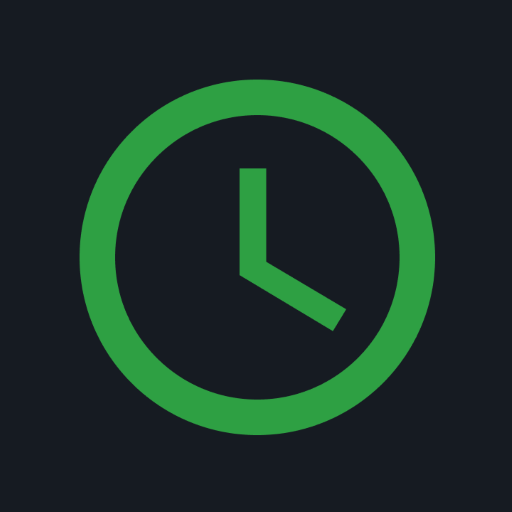
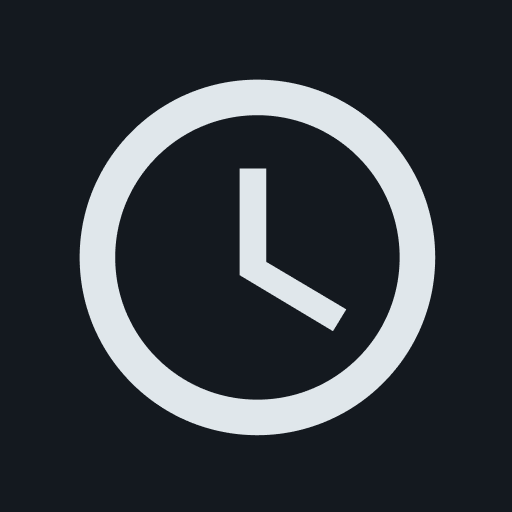
move to custom css

Changed region(s): [[0.1562, 0.1562, 0.875, 0.875], [0.4688, 0.3125, 0.6875, 0.6562]]

diff --git a/src/index.html b/src/index.html
@@ -8,10 +8,9 @@
     <meta name="description" content="Foothill High School Bell Schedule">
     <link rel="icon" href="favicon.svg">
     <link rel="stylesheet" href="style.css">
-    <link href="https://unpkg.com/@primer/css@^20.2.4/dist/primer.css" rel="stylesheet" />
-    <meta name="color-scheme" content="dark light">
+    <meta name="color-scheme" content="dark">
     <link rel="manifest" href="app.webmanifest">
-    <link rel="apple-touch-icon" href="apple-touch-icon.png"> 
+    <link rel="apple-touch-icon" href="apple-touch-icon.png">
     <meta name="apple-mobile-web-app-title" content="Schedule">
     <meta name="apple-mobile-web-app-capable" content="yes">
 </head>
@@ -21,55 +20,39 @@
         <h3 style="text-align: center;">{{ today }}</h3>
     </header>
     <main>
-        <div class="Box">
-            <div class="Box-header">
-                <h2 class="Box-title" style="text-align: center;">
-                    {{ scheduleName }}
-                </h2>
-            </div>
-            <div class="Box-body">
-                {{ scheduleHTML }}
-            </div>
+        <div class="box">
+            <h2>{{ scheduleName }}</h2>
+            {{ scheduleHTML }}
         </div>
-        <div class="Box">
-            <div class="Box-header d-flex flex-items-center">
-                <h2 class="Box-title flex-auto">
-                    Today's Games
-                    <span class="Counter Counter--gray">{{ gamesToday }}</span>
-                </h2>
-                <a href="games.html" class="btn btn-primary btn-sm">View Upcoming Games</a>
-            </div>
-            <div class="Box-body">
-                <ul>
-                    {% for value in games %}
-                    <li>
-                        <p><b>Time:</b> {{ value["Time"] }}</p>
-                        <p><b>Sport:</b> {{ value["Sport"] }}</p>
-                        <p><b>Opponent:</b> {{ value["Opponent"] }}</p>
-                        <p><b>Level:</b> {{ value["Level"] }}</p>
-                        <p><b>Game Type:</b> {{ value["GameType"] }}</p>
-                    </li>
-                    {% endfor %}
-                </ul>
-            </div>
+        <div class="box">
+            <h2>
+                Today's Games
+                <!-- <span class="counter">{{ gamesToday }}</span> -->
+            </h2>
+            <ul>
+                {% for value in games %}
+                <li>
+                    <p><b>Time:</b> {{ value["Time"] }}</p>
+                    <p><b>Sport:</b> {{ value["Sport"] }}</p>
+                    <p><b>Opponent:</b> {{ value["Opponent"] }}</p>
+                    <p><b>Level:</b> {{ value["Level"] }}</p>
+                    <p><b>Game Type:</b> {{ value["GameType"] }}</p>
+                </li>
+                {% endfor %}
+            </ul>
+            <a href="games.html" class="btn">View Upcoming Games</a>
         </div>
-        <div class="Box">
-            <div class="Box-header d-flex flex-items-center">
-                <h2 class="Box-title flex-auto">
-                    Today's Events
-                    <span class="Counter Counter--gray">{{ eventsToday }}</span>
-                </h2>
-                <a href="events.html" class="btn btn-primary btn-sm">View Upcoming Events</a>
-            </div>
-            <div class="Box-body">
-                    <ul>
-                        {% for value in events %}
-                        <li>
-                            <p>{{ value["Event"] }}</p>
-                        </li>
-                        {% endfor %}
-                    </ul>
-            </div>
+        <div class="box">
+            <h2>
+                Today's Events
+                <!-- <span class="counter">{{ eventsToday }}</span> -->
+            </h2>
+            <ul>
+                {% for value in events %}
+                <li><p>{{ value["Event"] }}</p></li>
+                {% endfor %}
+            </ul>
+            <a href="events.html" class="btn">View Upcoming Events</a>
         </div>
     </main>
 </body>

diff --git a/public/api/index.html b/public/api/index.html
@@ -1,5 +1,5 @@
 <!DOCTYPE html>
-<html lang="en-US" data-color-mode="auto" data-light-theme="light" data-dark-theme="dark">
+<html lang="en-US">
 <head>
     <meta charset="UTF-8">
     <meta http-equiv="X-UA-Compatible" content="IE=edge">
@@ -8,31 +8,26 @@
     <meta name="description" content="Foothill High School Bell Schedule API">
     <link rel="icon" href="../favicon.svg">
     <link rel="stylesheet" href="../style.css">
-    <link href="https://unpkg.com/@primer/css@^20.2.4/dist/primer.css" rel="stylesheet" />
-    <meta name="color-scheme" content="dark light">
-    <link rel="manifest" href="app.webmanifest">
-    <link rel="apple-touch-icon" href="apple-touch-icon.png"> 
-    <meta name="apple-mobile-web-app-title" content="Schedule">
-    <meta name="apple-mobile-web-app-capable" content="yes">
+    <meta name="color-scheme" content="dark">
+    <link rel="manifest" href="../app.webmanifest">
+    <link rel="../apple-touch-icon" href="../apple-touch-icon.png"> 
+    <meta name="../apple-mobile-web-app-title" content="Schedule">
+    <meta name="../apple-mobile-web-app-capable" content="yes">
 </head>
 <body>
-    <a href="../index.html" id="back">
-        <svg width="24" height="24" viewBox="0 0 24 24" fill="none" xmlns="http://www.w3.org/2000/svg">
-            <path d="M12 24L0 12L12 0L13.575 1.575L4.275 10.875H24V13.125H4.275L13.575 22.425L12 24Z"/>
-        </svg>
-    </a>
+    <button onclick="history.back()" id="back">
+        <svg width="24" height="24" viewBox="0 0 24 24" fill="none" xmlns="http://www.w3.org/2000/svg"><path d="M12 24L0 12L12 0L13.575 1.575L4.275 10.875H24V13.125H4.275L13.575 22.425L12 24Z" fill="black"/></svg>
+    </button>
     <header>
         <h1>API</h1>
     </header>
     <main>
-        <div class="Box">
-            <div class="Box-body">
+        <div class="box">
                 <p>today: <a href="https://fhsbellschedule.web.app/api/today.json">/api/today.json</a></p>
                 <p>upcoming: <a href="https://fhsbellschedule.web.app/api/upcoming.json">/api/upcoming.json</a></p>
                 <p>all games: <a href="https://fhsbellschedule.web.app/api/games.json">/api/games.json</a> or <a href="https://fhsbellschedule.web.app/api/games.csv">/api/games.csv</a></p>
                 <p>all events: <a href="https://fhsbellschedule.web.app/api/events.json">/api/events.json</a> or <a href="https://fhsbellschedule.web.app/api/events.csv">/api/events.csv</a></p>
                 <p>all schedules: <a href="https://fhsbellschedule.web.app/api/schedules.json">/api/schedules.json</a></p>
-            </div>
         </div>
     </main>
 </body>

diff --git a/src/games.html b/src/games.html
@@ -8,33 +8,28 @@
     <meta name="description" content="Foothill High School Upcoming Games">
     <link rel="icon" href="favicon.svg">
     <link rel="stylesheet" href="style.css">
-    <link href="https://unpkg.com/@primer/css@^20.2.4/dist/primer.css" rel="stylesheet" />
-    <meta name="color-scheme" content="dark light">
+    <meta name="color-scheme" content="dark">
     <link rel="manifest" href="app.webmanifest">
     <link rel="apple-touch-icon" href="apple-touch-icon.png"> 
     <meta name="apple-mobile-web-app-title" content="Schedule">
     <meta name="apple-mobile-web-app-capable" content="yes">
 </head>
 <body>
-    <a href="index.html" id="back">
-        <svg width="24" height="24" viewBox="0 0 24 24" fill="none" xmlns="http://www.w3.org/2000/svg">
-            <path d="M12 24L0 12L12 0L13.575 1.575L4.275 10.875H24V13.125H4.275L13.575 22.425L12 24Z" fill="var(--text)"/>
-        </svg>
-    </a>
+    <button onclick="history.back()" id="back">
+        <svg width="24" height="24" viewBox="0 0 24 24" fill="none" xmlns="http://www.w3.org/2000/svg"><path d="M12 24L0 12L12 0L13.575 1.575L4.275 10.875H24V13.125H4.275L13.575 22.425L12 24Z" fill="black"/></svg>
+    </button>
     <header>
         <h1>Upcoming Games</h1>
     </header>
     <main>
     {% for value in games %}
-        <div class="Box">
-            <div class="Box-body">
-                <p><b>Date:</b> {{ value["Date"] }}</p>
-                <p><b>Time:</b> {{ value["Time"] }}</p>
-                <p><b>Sport:</b> {{ value["Sport"] }}</p>
-                <p><b>Opponent:</b> {{ value["Opponent"] }}</p>
-                <p><b>Level:</b> {{ value["Level"] }}</p>
-                <p><b>Game Type:</b> {{ value["GameType"] }}</p>
-            </div>
+        <div class="box">
+            <p><b>Date:</b> {{ value["Date"] }}</p>
+            <p><b>Time:</b> {{ value["Time"] }}</p>
+            <p><b>Sport:</b> {{ value["Sport"] }}</p>
+            <p><b>Opponent:</b> {{ value["Opponent"] }}</p>
+            <p><b>Level:</b> {{ value["Level"] }}</p>
+            <p><b>Game Type:</b> {{ value["GameType"] }}</p>
         </div>
     {% endfor %}
     </main>

diff --git a/src/events.html b/src/events.html
@@ -8,29 +8,24 @@
     <meta name="description" content="Foothill High School Upcoming Events">
     <link rel="icon" href="favicon.svg">
     <link rel="stylesheet" href="style.css">
-    <link href="https://unpkg.com/@primer/css@^20.2.4/dist/primer.css" rel="stylesheet" />
-    <meta name="color-scheme" content="dark light">
+    <meta name="color-scheme" content="dark">
     <link rel="manifest" href="app.webmanifest">
     <link rel="apple-touch-icon" href="apple-touch-icon.png"> 
     <meta name="apple-mobile-web-app-title" content="Schedule">
     <meta name="apple-mobile-web-app-capable" content="yes">
 </head>
 <body>
-    <a href="index.html" id="back">
-        <svg width="24" height="24" viewBox="0 0 24 24" fill="none" xmlns="http://www.w3.org/2000/svg">
-            <path d="M12 24L0 12L12 0L13.575 1.575L4.275 10.875H24V13.125H4.275L13.575 22.425L12 24Z" fill="var(--text)"/>
-        </svg>
-    </a>
+    <button onclick="history.back()" id="back">
+        <svg width="24" height="24" viewBox="0 0 24 24" fill="none" xmlns="http://www.w3.org/2000/svg"><path d="M12 24L0 12L12 0L13.575 1.575L4.275 10.875H24V13.125H4.275L13.575 22.425L12 24Z" fill="black"/></svg>
+    </button>
     <header>
         <h1>Upcoming Events</h1>
     </header>
     <main>
     {% for value in events %}
         <div class="Box">
-            <div class="Box-body">
-                <p><b>Date:</b> {{ value["Date"] }}</p>
-                <p><b>Event:</b> {{ value["Event"] }}</p>
-            </div>
+            <p><b>Date:</b> {{ value["Date"] }}</p>
+            <p><b>Event:</b> {{ value["Event"] }}</p>
         </div>
     {% endfor %}
     </main>

diff --git a/public/style.css b/public/style.css
@@ -1,5 +1,11 @@
-header {
-    padding-top: 1rem;
+* {
+    margin: .1em;
+    padding: .1em;
+}
+body {
+    background-color: #14191F;
+    color: #E0E7EB;
+    font-family: -apple-system,BlinkMacSystemFont,"Segoe UI",Helvetica,Arial,sans-serif,"Apple Color Emoji","Segoe UI Emoji";
 }
 header h1{
     text-align: center;
@@ -7,19 +13,37 @@ header h1{
 main {
     margin: 0 3rem;
 }
-.Box {
+a {
+    color: hsl(202, 22%, 90%);
+}
+a:hover {
+    color: hsl(202, 22%, 75%);
+}
+.box {
     margin: 1rem;
+    padding: 1rem 2rem;
+    border: 1px solid #E0E7EB;
+    border-radius: 6px;
+}
+.btn {
+    display: inline-block;
+    background-color: transparent;
+    border: 1px solid #E0E7EB;
+    color: #E0E7EB;
+    text-decoration: none;
+    padding: .5em 1em;
+    border-radius: 6px;
+    transition: all ease .2s;
+}
+.btn:hover {
+    background-color: #E0E7EB;
+    color: #14191F;
 }
 ul {
-    margin: 0 2em;
     line-height: 200%;
 }
 table {
-    margin: 0 auto;
     line-height: 200%;
-}
-table td {
-    padding: 0 1em;
 }
 #back {
     position: fixed;
@@ -27,11 +51,21 @@ table td {
     left: .5em;
     padding: .5em;
     border-radius: 6px;
-    background-color: var(--color-canvas-default);
-    border: 1px solid var(--color-border-default);
+    background-color: #14191F;
+    border: 1px solid #E0E7EB;
+    transition: all ease .2s;
+
 }
 #back svg path {
-    fill: var(--color-fg-default);
+    fill: #E0E7EB;
+    transition: all ease .2s;
+}
+#back:hover {
+    cursor: pointer;
+    background-color: #E0E7EB;
+}
+#back:hover svg path {
+    fill: #14191F;
 }
 @media only screen and (max-width: 544px) {
     main {

diff --git a/public/404.html b/public/404.html
@@ -9,13 +9,16 @@
     <link rel="icon" href="favicon.svg">
     <link rel="stylesheet" href="style.css">
     <link href="https://unpkg.com/@primer/css@^20.2.4/dist/primer.css" rel="stylesheet" />
-    <meta name="color-scheme" content="dark light">
+    <meta name="color-scheme" content="dark">
     <link rel="manifest" href="app.webmanifest">
     <link rel="apple-touch-icon" href="apple-touch-icon.png"> 
     <meta name="apple-mobile-web-app-title" content="Schedule">
     <meta name="apple-mobile-web-app-capable" content="yes">
 </head>
 <body>
+    <button onclick="history.back()" id="back">
+        <svg width="24" height="24" viewBox="0 0 24 24" fill="none" xmlns="http://www.w3.org/2000/svg"><path d="M12 24L0 12L12 0L13.575 1.575L4.275 10.875H24V13.125H4.275L13.575 22.425L12 24Z" fill="black"/></svg>
+    </button>
     <header>
         <h1>Page Not Found</h1>
     </header>
